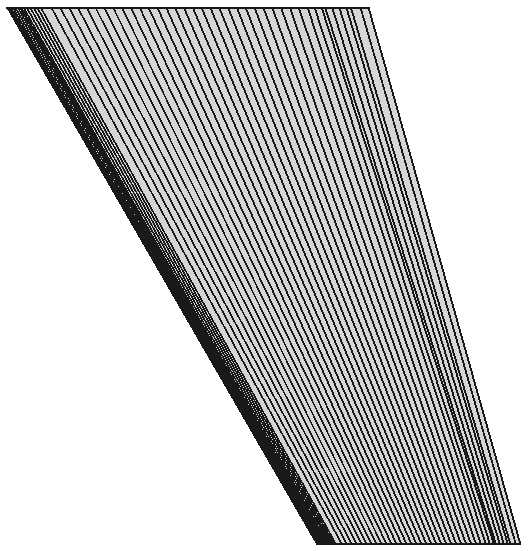
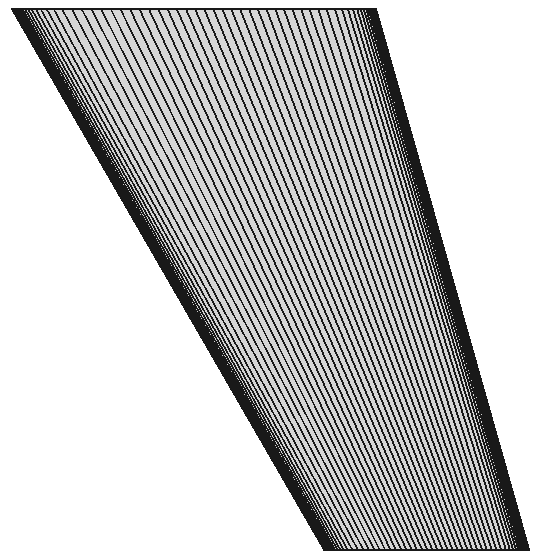
>

diff --git a/README.md b/README.md
@@ -21,26 +21,16 @@ Gmsh version: 4.7.1
   <figcaption>Top view of the wing.</figcaption>
 </figure>
 
-<figure>
-  <img src="/images/3.png" width="300">
-  <figcaption>Close-up view of the base section.</figcaption>
-</figure>
-
-<figure>
-  <img src="/images/4.png" width="300">
-  <figcaption>Close-up view of the base section showing blunt trailing edge.</figcaption>
-</figure>
-
-<figure>
-  <img src="/images/5.png" width="300">
-  <figcaption>Outer boundary in shape of a box.</figcaption>
-</figure>
-
 ## Gmsh images
 
 <figure>
   <img src="/images/6.png" width="300">
-  <figcaption>Geometry.</figcaption>
+  <figcaption>Geometry from isometric view.</figcaption>
+</figure>
+
+<figure>
+  <img src="/images/7.png" width="300">
+  <figcaption>Geometry from another view to show symmetry plane.</figcaption>
 </figure>
 
 <figure>
